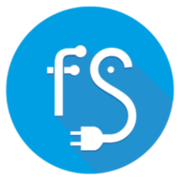
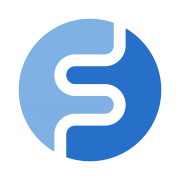
Added new corporate image.

diff --git a/Core/View/Login/Login.html b/Core/View/Login/Login.html
@@ -1,11 +1,13 @@
 {% extends "Master/MicroTemplate.html" %}
 
 {% block body %}
-<br/><br/><br/>
 <form action="index.php" method="post" class="form">
     <div class="container">
         <div class="row justify-content-md-center">
-            <div class="col-md-auto">
+            <div class="col-md-6">
+                <a href="https://www.facturascripts.com">
+                    <img src="Core/Assets/Images/horizontal-logo.png" alt="FacturaScripts" class="img-fluid"/>
+                </a>
                 <div class="jumbotron">
                     <h1 class="text-capitalize">{{ i18n.trans('login') }}</h1>
                     <p class="help-block">{{ i18n.trans('login-text') }}</p>

diff --git a/Core/Base/ExtendedController/DocumentController.php b/Core/Base/ExtendedController/DocumentController.php
@@ -201,7 +201,7 @@ abstract class DocumentController extends PanelController
             ];
             if ($col->display === 'none') {
                 $item['editor'] = false;
-                $item['width'] = 0.1;
+                $item['width'] = 1;
             }
             if ($item['type'] === 'number' || $item['type'] === 'money') {
                 $item['type'] = 'numeric';
